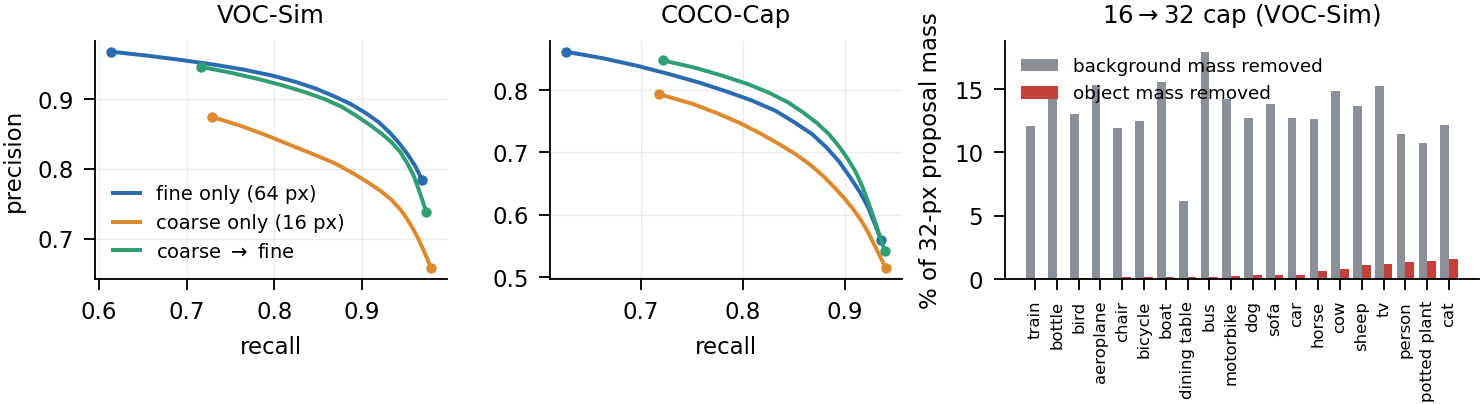
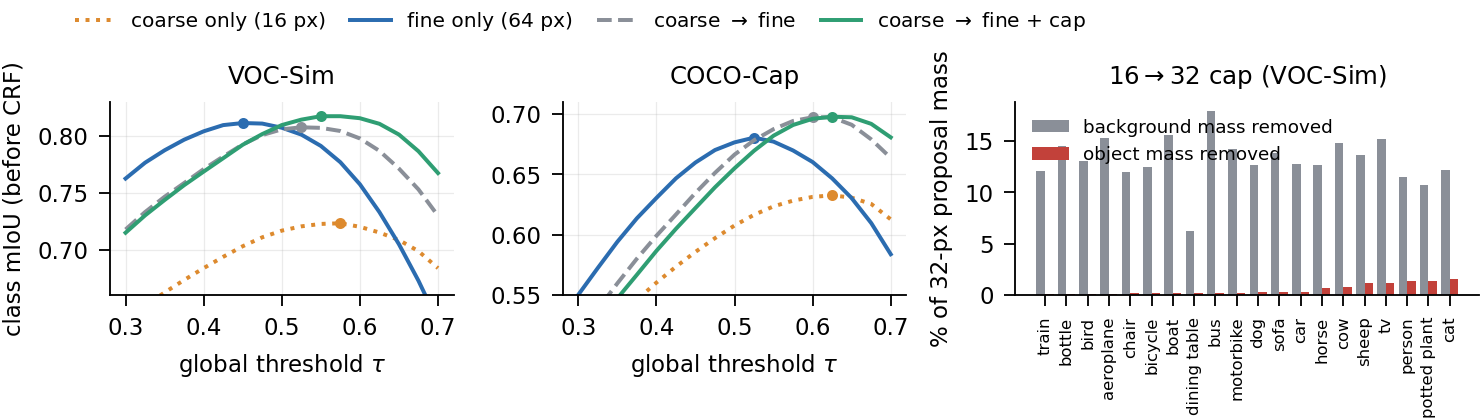
Figure 3: mIoU-vs-threshold curves incl. capped hierarchy; match Table 3 run
Left/middle panels now show class mIoU (before CRF) against the global
threshold for coarse only, fine only, plain coarse-to-fine and
coarse-to-fine + cap, so the figure shows the method itself rather than
the uncapped intermediate. Caption and Section 5.2 numbers now come from
Table 3.

diff --git a/paper/sec/5_analysis.tex b/paper/sec/5_analysis.tex
@@ -21,12 +21,12 @@ Uniform averaging still lets the noisy 64-pixel modules contribute five of eleve
 
 \subsection{Envelope: why start from coarse self-attention}
 \label{sec:envelope}
-SA at different scales groups pixels differently. Figure~\ref{fig:scales} (left, middle) compares propagating the same seed through 16-pixel SA only, 64-pixel SA only, and from 16 to 64 pixels. Coarse SA keeps recall high as the threshold rises (0.73 at $\tau{=}0.70$ on VOC-Sim, against 0.61 for fine SA), because it assigns whole regions, not textures, to the object. Its precision is low, however: blocks along the boundary are all-or-nothing, and alone it scores only 0.723 OOF. Fine SA is precise but loses object parts at high thresholds. Going from coarse to fine keeps most of the coarse recall at nearly fine precision. On cluttered COCO-Cap, where fine SA leaks into look-alike textures, it already beats fine-only propagation (0.687 vs.\ 0.660 frozen). On VOC-Sim, however, it falls short (0.802 vs.\ 0.810 OOF). The coarse envelope is useful, but on its own it lets the finer levels claim too much. The cap addresses this.
+SA at different scales groups pixels differently. Figure~\ref{fig:scales} (left, middle) propagates the same seed through 16-pixel SA only, 64-pixel SA only, and from 16 to 64 pixels. Coarse SA assigns whole regions, not textures, to the object, but its boundary blocks are all-or-nothing, so alone it peaks at only 0.72 on VOC-Sim. Fine SA is precise but loses object parts as the threshold rises: its curve peaks early (\(\tau{=}0.45\)) and then falls steeply. Going from coarse to fine keeps the object at high thresholds. On cluttered COCO-Cap, where fine SA leaks into look-alike textures, this already beats fine-only propagation (0.693 vs.\ 0.662 after DenseCRF, Table~\ref{tab:hierarchy}). On VOC-Sim, however, it falls short (0.806 vs.\ 0.810 OOF): the coarse envelope is useful, but on its own it lets the finer levels claim too much background. With the cap (green), coarse-to-fine is best on both datasets; the next section explains why.
 
 \begin{figure*}[t]
 \centering
 \includegraphics[width=\textwidth]{figures/scale_profiles.pdf}
-\caption{\textbf{Coarse SA gives the envelope; the cap trims only background.} \emph{Left, middle:} pooled precision and recall over the threshold grid (0.30 at the high-recall end to 0.70) for one seed propagated by 64-pixel SA only, 16-pixel SA only, or 16$\to$64 pixels (two passes per level, same run). Coarse SA keeps recall at high thresholds and coarse-to-fine combines it with fine precision. \emph{Right:} share of the 32-pixel proposal's mass that the cap removes inside the annotated object (red) and in the background (grey), per VOC-Sim class (ground truth is used only for this diagnostic). Overall 13\% of background mass and 0.5\% of object mass are removed.}
+\caption{\textbf{The coarse envelope adds recall; the cap removes the background it lets in.} \emph{Left, middle:} class mIoU before DenseCRF against the global threshold, for one seed propagated by 16-pixel SA only, 64-pixel SA only, from 16 to 64 pixels, and from 16 to 64 pixels with the cap (dots: best threshold). Coarse-to-fine propagation keeps the object at high thresholds where fine SA loses it, but without the cap it falls short of fine SA on VOC-Sim; with the cap it is best on both datasets. \emph{Right:} share of the 32-pixel proposal's mass that the cap removes inside the annotated object (red) and in the background (grey), per VOC-Sim class (ground truth is used only for this diagnostic). Overall 13\% of background mass and 0.5\% of object mass are removed.}
 \label{fig:scales}
 \end{figure*}
 

diff --git a/scripts/paper/figure_coarse_to_fine.py b/scripts/paper/figure_coarse_to_fine.py
@@ -60,19 +60,23 @@ def save(fig, name):
 
 def scale_profiles():
     fig, axes = plt.subplots(1, 3, figsize=(7.0, 2.05), gridspec_kw={"width_ratios": [1, 1, 1.35]})
-    cells = (("FINE-P2", "fine only (64 px)", BLUE, "-"), ("COARSE16-P2", "coarse only (16 px)", ORANGE, "-"),
-             ("16-to-64", "coarse $\\rightarrow$ fine", GREEN, "-"))
+    # (package, cell, label, color, linestyle); coarse-only comes from SG25 (same seed and SA calls),
+    # the other three from SG-combined-v2, the run behind Table 3.
+    cells = (("sg25", "COARSE16-P2", "coarse only (16 px)", ORANGE, ":"),
+             ("sg_combined_v2", "V0", "fine only (64 px)", BLUE, "-"),
+             ("sg_combined_v2", "V1", "coarse $\\rightarrow$ fine", GREY, "--"),
+             ("sg_combined_v2", "V3", "coarse $\\rightarrow$ fine + cap", GREEN, "-"))
     for ax, ds, title in ((axes[0], "voc", "VOC-Sim"), (axes[1], "coco", "COCO-Cap")):
-        counts, cfg, _, thr = load("sg25", ds)
-        for name, label, color, ls in cells:
-            s = counts[cfg.index(name)].sum(0).astype(float)
-            p, r = s[:, 0] / (s[:, 0] + s[:, 1]), s[:, 0] / (s[:, 0] + s[:, 2])
-            ax.plot(r, p, ls, color=color, lw=1.3, label=label)
-            ax.plot(r[[0, -1]], p[[0, -1]], "o", color=color, ms=2.4)
-        ax.set_xlabel("recall"); ax.set_title(title, fontsize=8)
-        ax.grid(alpha=.25, lw=.4)
-    axes[0].set_ylabel("precision")
-    axes[0].legend(loc="lower left", fontsize=6.4, handlelength=1.4)
+        for package, name, label, color, ls in cells:
+            counts, cfg, classes, thr = load(package, ds)
+            m = class_miou(counts[cfg.index(name)], classes)
+            ax.plot(thr, m, ls, color=color, lw=1.3, label=label)
+            ax.plot(thr[m.argmax()], m.max(), "o", color=color, ms=2.6)
+        ax.set_xlabel("global threshold $\\tau$"); ax.set_title(title, fontsize=8)
+        ax.set_xticks([.3, .4, .5, .6, .7]); ax.grid(alpha=.25, lw=.4)
+    axes[0].set_ylim(.66, .83); axes[1].set_ylim(.55, .71)
+    axes[0].set_ylabel("class mIoU (before CRF)")
+    h, l = axes[0].get_legend_handles_labels()
     # cap: removed object vs background mass by class
     res = json.loads((CV / "sg_combined_v3/results.json").read_text())
     by = res["diagnostics"]["voc"]["gt_cap_loss_16_to_32"]["R1"]["by_class"]
@@ -84,7 +88,9 @@ def scale_profiles():
     ax.set_xticks(x); ax.set_xticklabels([k.replace("-", " ") for k in names], rotation=90, fontsize=5.4)
     ax.set_ylabel("% of 32-px proposal mass"); ax.set_title("16$\\rightarrow$32 cap (VOC-Sim)", fontsize=8)
     ax.legend(fontsize=6, loc="upper left")
-    fig.tight_layout(w_pad=.8)
+    fig.tight_layout(w_pad=.8, rect=(0, 0, 1, .9))
+    fig.legend(h, l, loc="upper left", bbox_to_anchor=(.06, 1.0), ncol=4, fontsize=6.6, handlelength=2.0,
+               columnspacing=1.2)
     save(fig, "scale_profiles")
 
 
